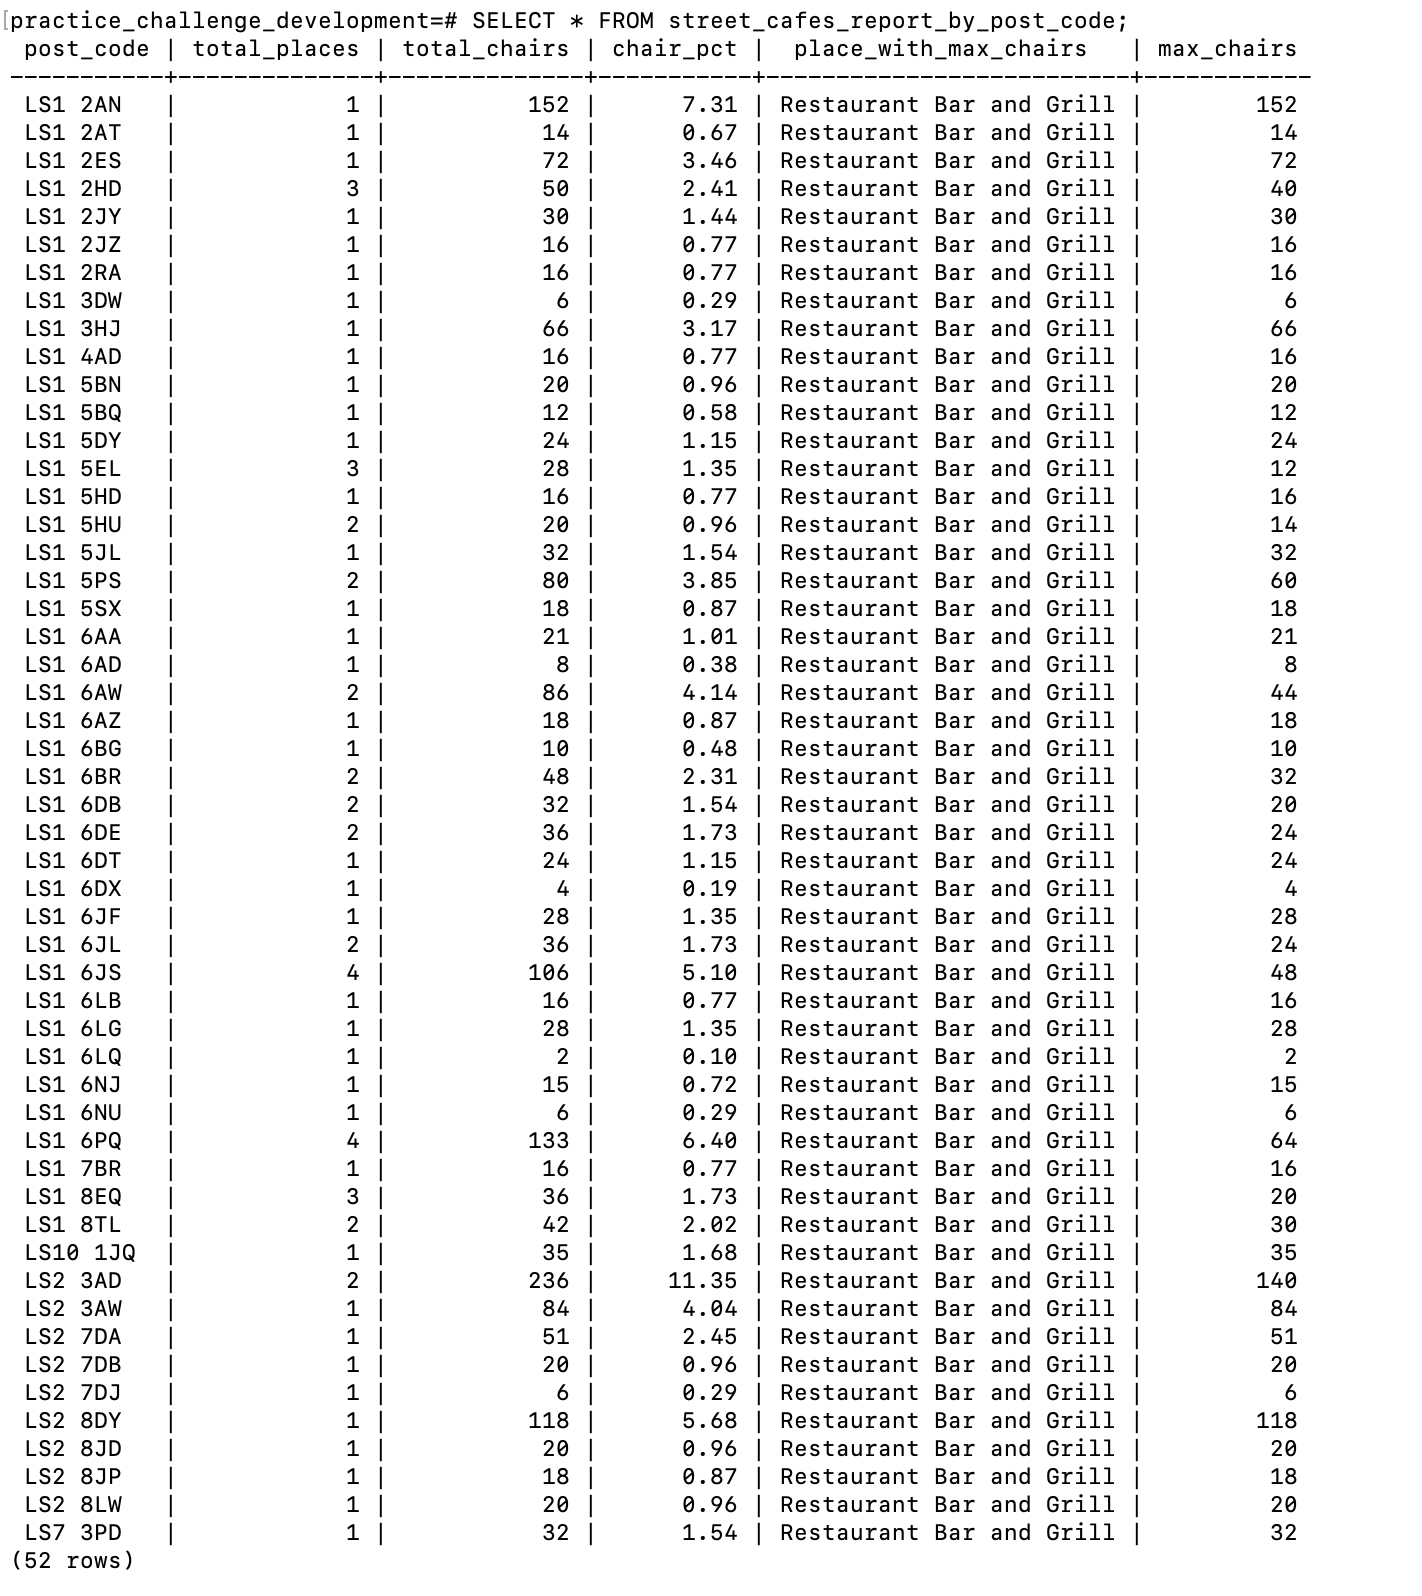
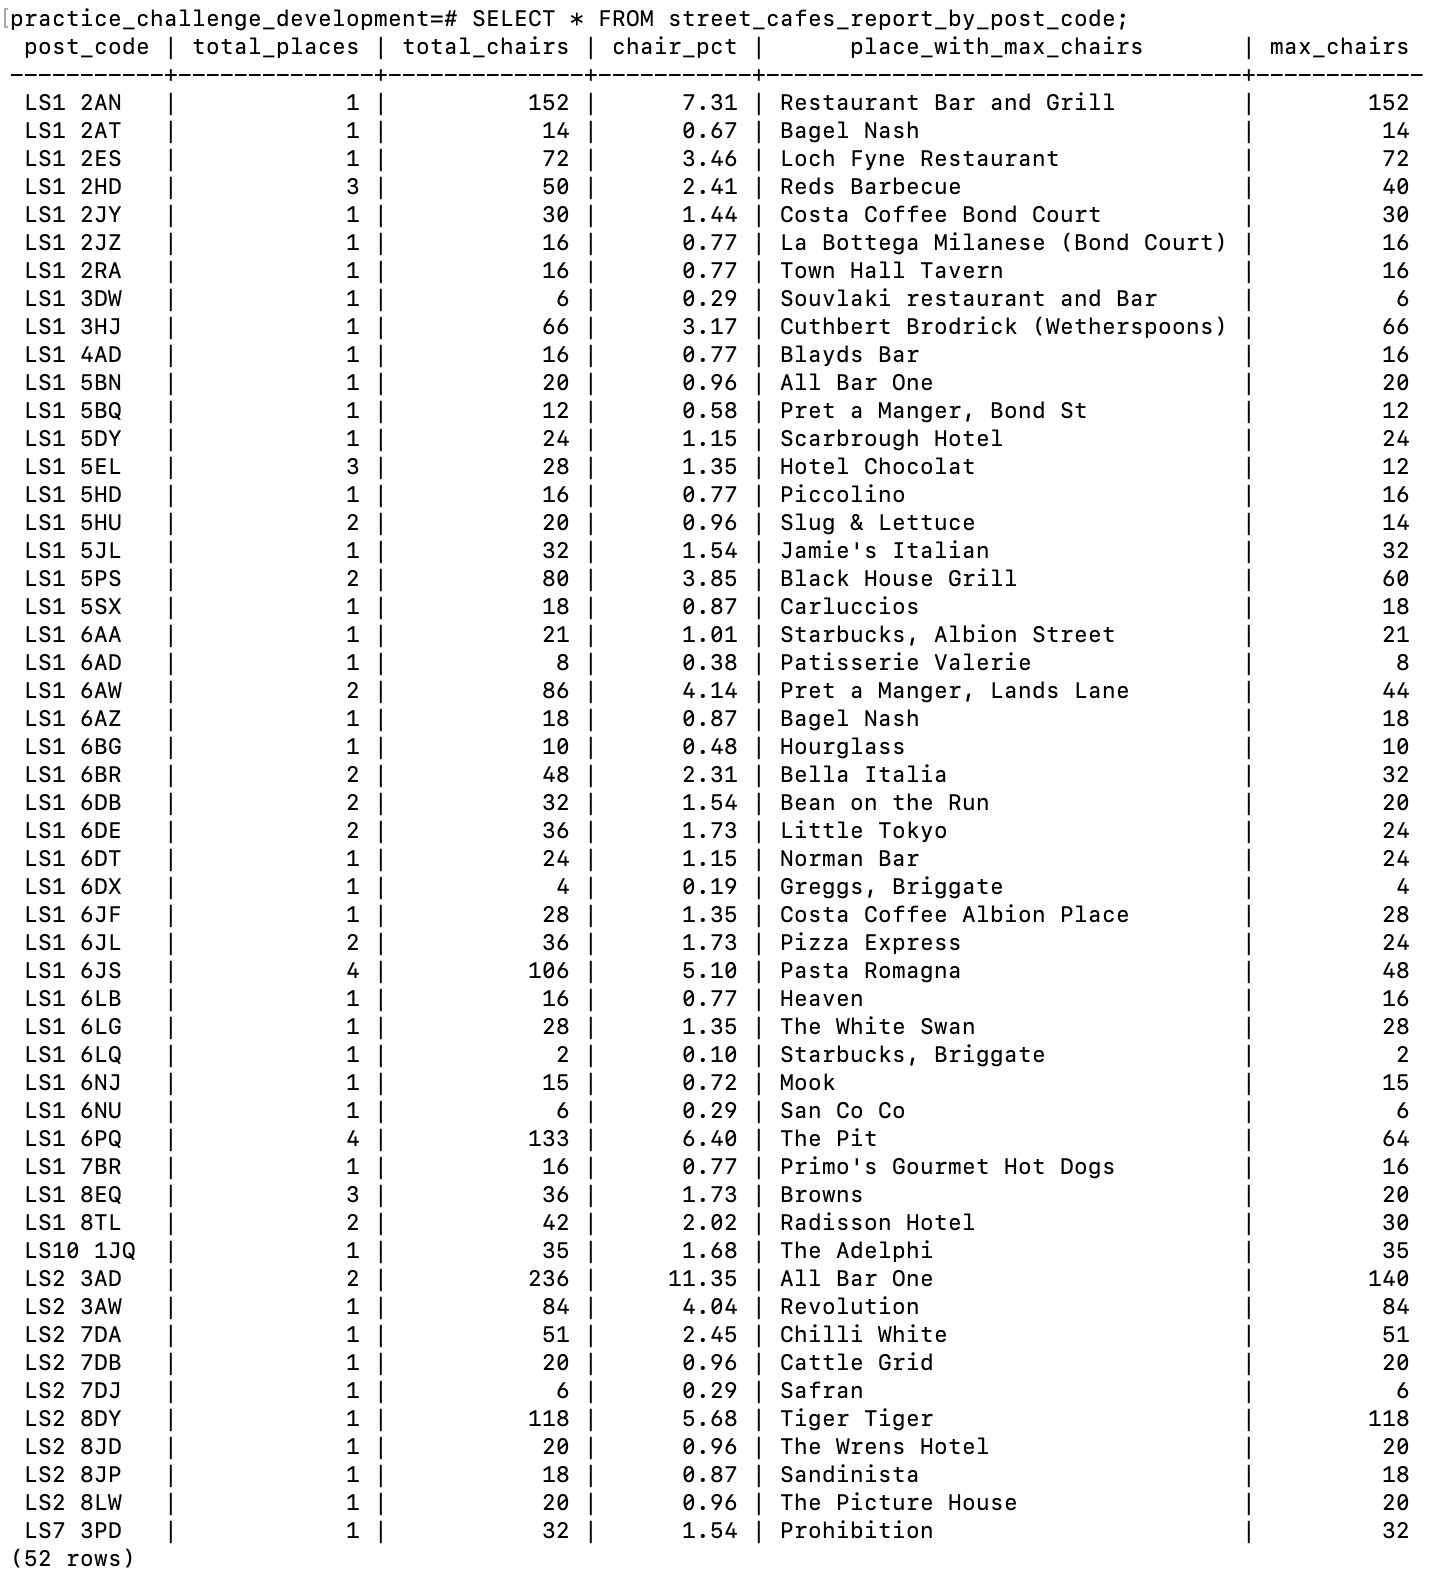
Updates sql query for view

diff --git a/db/migrate/20200429171537_street_cafe_report_by_post_code_view.rb b/db/migrate/20200429171537_street_cafe_report_by_post_code_view.rb
@@ -9,10 +9,10 @@ class StreetCafeReportByPostCodeView < ActiveRecord::Migration[5.2]
               COUNT(*) AS total_places,
               SUM(number_of_chairs) AS total_chairs,
               ROUND((SUM(number_of_chairs) * 1.0 / (SELECT SUM(cafes.number_of_chairs)* 1.0 FROM street_cafes cafes) * 100), 2) AS chair_pct,
-              (SELECT restaurant_name FROM street_cafes sc WHERE sc.post_code = post_code ORDER BY number_of_chairs desc LIMIT 1) AS place_with_max_chairs,
+              (SELECT restaurant_name FROM street_cafes sc WHERE sc.post_code = street.post_code ORDER BY number_of_chairs desc LIMIT 1) AS place_with_max_chairs,
               MAX(number_of_chairs) as max_chairs
             FROM
-              street_cafes
+              street_cafes street
             GROUP BY
               post_code
             ORDER BY

diff --git a/README.md b/README.md
@@ -36,13 +36,13 @@ First I cloned down the repository and copied the street cafes 2015-16 csv into 
 
     `
     == 20200429171537 StreetCafeReportByPostCodeView: migrating ===================
-    -- execute("          CREATE VIEW street_cafes_report_by_post_code AS\n            SELECT\n              post_code,\n              COUNT(*) AS total_plac
-    es,\n              SUM(number_of_chairs) AS total_chairs,\n              ROUND((SUM(number_of_chairs) * 1.0 / (SELECT SUM(cafes.number_of_chairs)* 1.0 FR
-    OM street_cafes cafes) * 100), 2) AS chair_pct,\n              (SELECT restaurant_name FROM street_cafes sc WHERE sc.post_code = post_code ORDER BY numbe
-    r_of_chairs desc LIMIT 1) AS place_with_max_chairs,\n              MAX(number_of_chairs) as max_chairs\n            FROM\n              street_cafes\n
-             GROUP BY\n              post_code\n            ORDER BY\n              post_code\n")
-       -> 0.0094s
-    == 20200429171537 StreetCafeReportByPostCodeView: migrated (0.0096s) ==========
+    -- execute("          CREATE VIEW street_cafes_report_by_post_code AS\n            SELECT\n              post_code,\n              COUNT(*) AS total_places
+    ,\n              SUM(number_of_chairs) AS total_chairs,\n              ROUND((SUM(number_of_chairs) * 1.0 / (SELECT SUM(cafes.number_of_chairs)* 1.0 FROM s
+    treet_cafes cafes) * 100), 2) AS chair_pct,\n              (SELECT restaurant_name FROM street_cafes sc WHERE sc.post_code = street.post_code ORDER BY numb
+    er_of_chairs desc LIMIT 1) AS place_with_max_chairs,\n              MAX(number_of_chairs) as max_chairs\n            FROM\n              street_cafes stree
+    t\n            GROUP BY\n              post_code\n            ORDER BY\n              post_code\n")
+       -> 0.0187s
+    == 20200429171537 StreetCafeReportByPostCodeView: migrated (0.0188s) ==========
     `
 
     To make the query accessible by ActiveRecord, I then created `street_cafe_report_by_post_code.rb` model and updated the file to:
